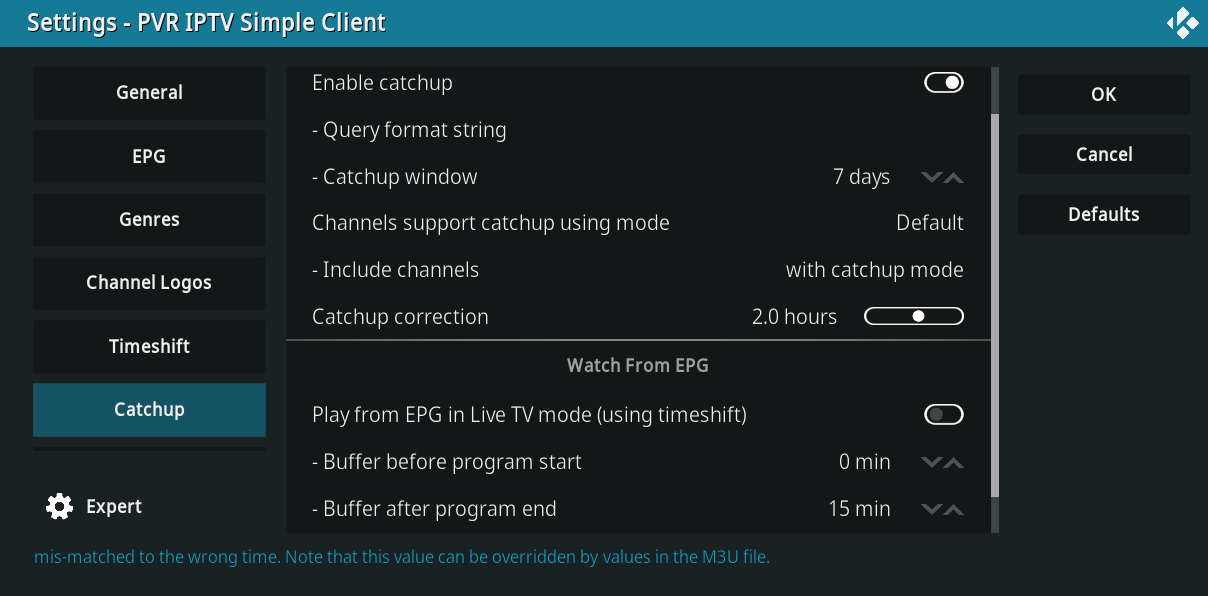
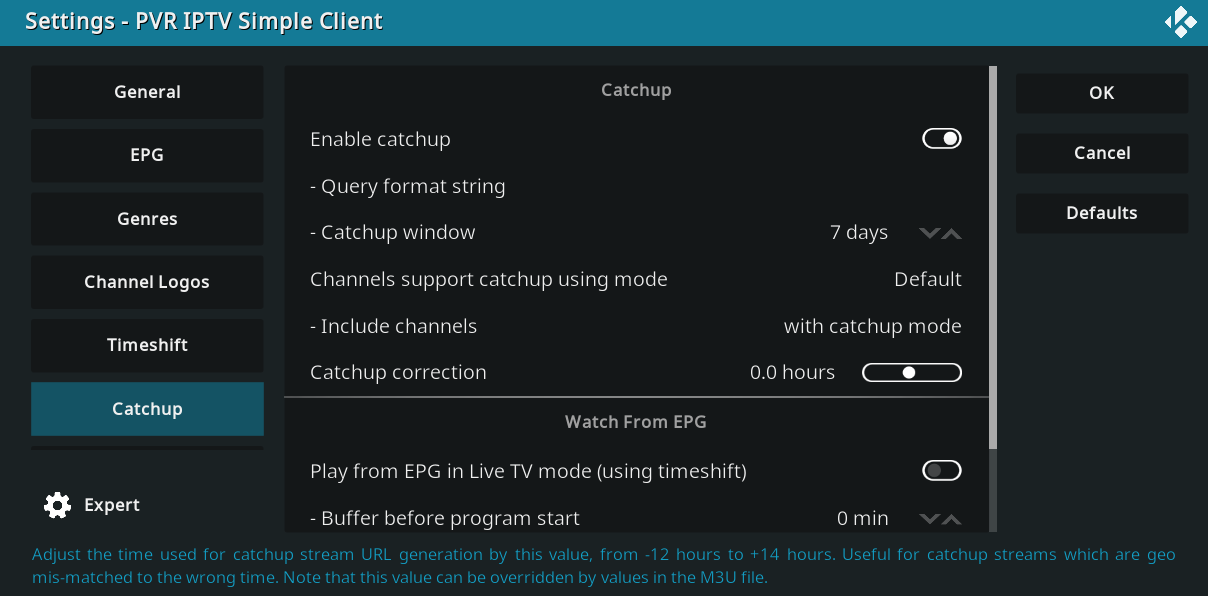
use catchup id instead of start and end time

diff --git a/m3u-generator.js b/m3u-generator.js
@@ -16,7 +16,7 @@ for (let i = 1; i < parts.length; i+=2) {
   if (channel && channel.has_replay) {
     parts[i] = parts[i].replace(
       '#EXTINF:0',
-      `#EXTINF:0 catchup="default" catchup-source="https://tv7api2.tv.init7.net/api/replay/?channel=${channel.pk}&start={utc:Y-m-dTH:M:S}Z&stop={utcend:Y-m-dTH:M:SZ}" catchup-days="7",`
+      `#EXTINF:0 catchup="default" catchup-source="https://tv7api2.tv.init7.net/api/replay/?channel=${channel.pk}&epg_pk={catchup-id}" catchup-days="7",`
     )
     parts[i+1] = channel.hls_src
   }

diff --git a/epg-generator.js b/epg-generator.js
@@ -53,6 +53,7 @@ for (let channel of channels.results) {
           .writeAttribute('start', getXMLTVTimeFromUTC(result.timeslot.lower))
           .writeAttribute('stop', getXMLTVTimeFromUTC(result.timeslot.upper))
           .writeAttribute('channel', channel.pk)
+          .writeAttribute('catchup-id', result.pk)
           .startElement('title').text(result.title).endElement();
         if (result['sub_title']) {
           xw.startElement('sub-title').text(result['sub_title']).endElement();

diff --git a/README.md b/README.md
@@ -20,7 +20,6 @@ This is an inofficial M3U File to support Replay TV with TV7 on Kodi using the S
 * Configure Catch up
   * Enable catchup
   * catchup window `7 days`
-  * catchup correct `2.0 hours`
   * include channels `with catchup mode`
 
 ![general](./images/catchup.png)
